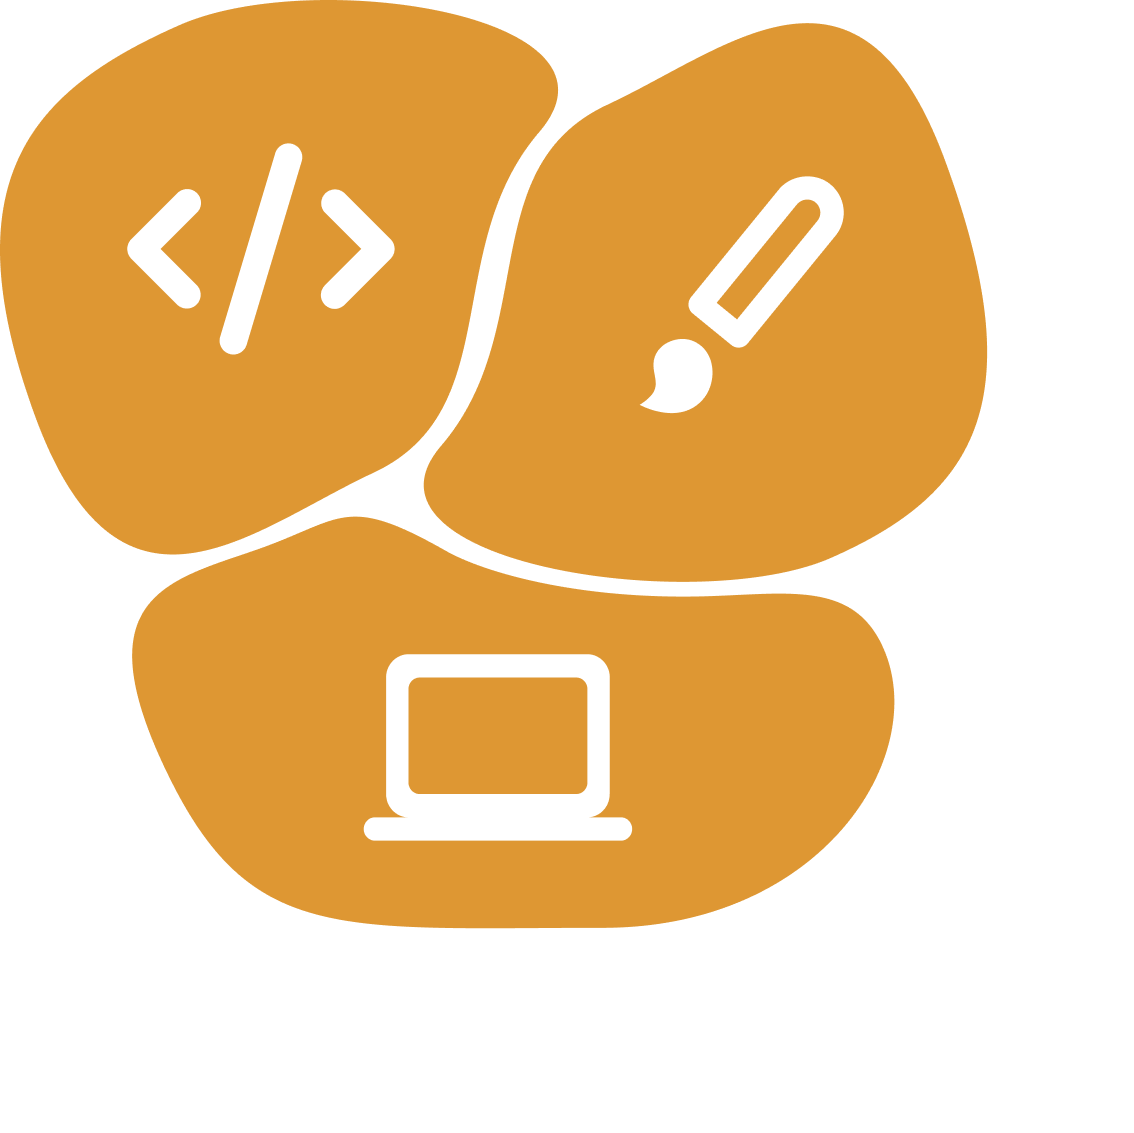
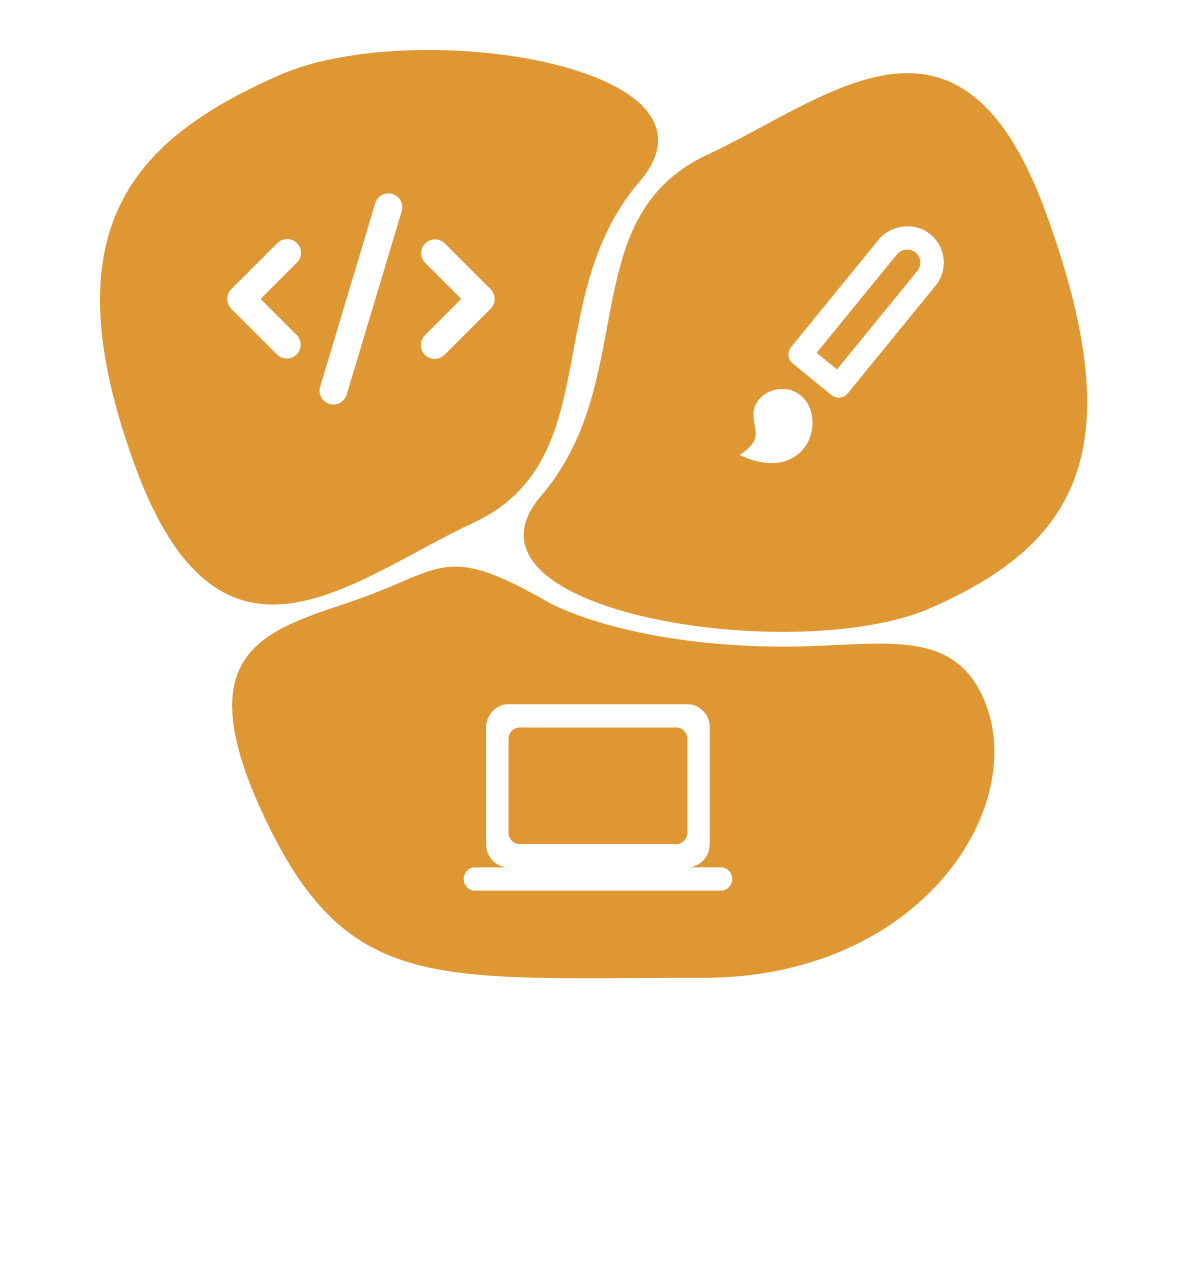
alterações de imagem

Changed region(s): [[0.0, 0.0, 0.9259, 0.8341], [0.5556, 0.1545, 0.8025, 0.3707]]

diff --git a/CSS/styles.css b/CSS/styles.css
@@ -170,7 +170,7 @@ section {
 .home-img img {
     position: absolute;
     bottom: 0;
-    right: 40px;
+    right: 100px;
     pointer-events: none;
     max-width: 480px;
     max-height: 100vh;
